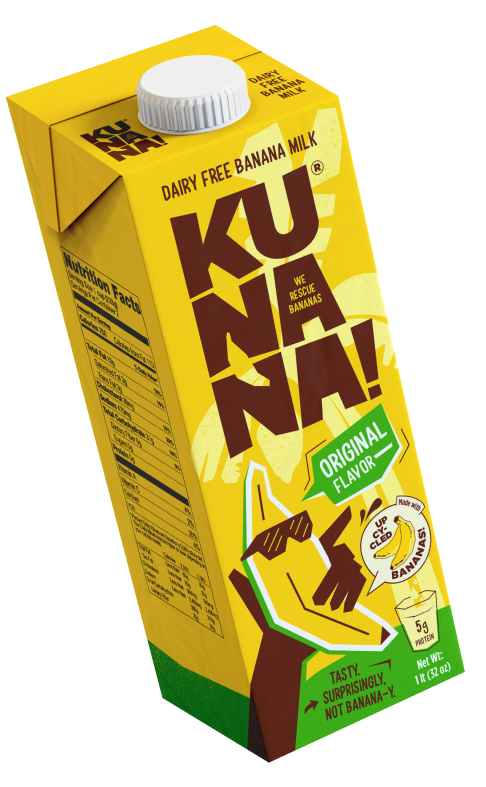
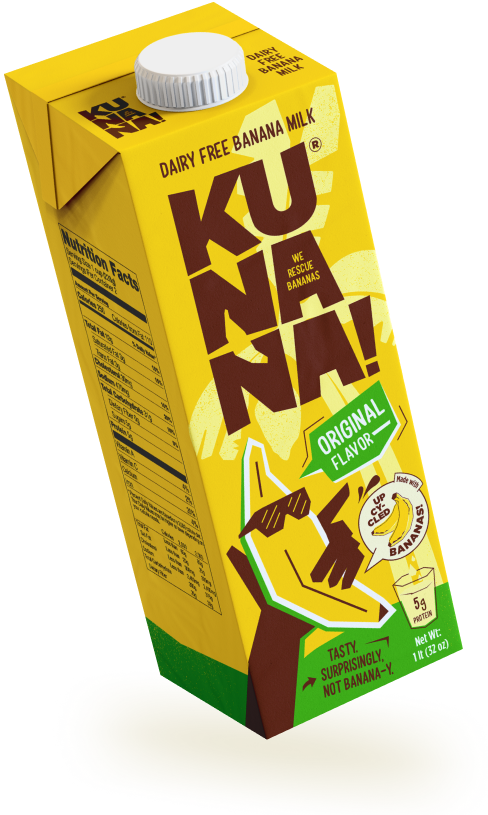
fix: hero images

diff --git a/src/layouts/HomeHero/home-hero.styles.jsx b/src/layouts/HomeHero/home-hero.styles.jsx
@@ -27,11 +27,11 @@ export const ImageGrid = styled(Grid)`
 `
 
 export const ProductImage = styled(CustomImage)`
-  width: 450px;
+  width: 480px;
   position: absolute;
   z-index: 4;
   right: -25px;
-  bottom: -160px;
+  bottom: -210px;
 `
 
 export const MainContainer = styled.div`

diff --git a/src/layouts/BenefitsSection/benefits-section.styles.jsx b/src/layouts/BenefitsSection/benefits-section.styles.jsx
@@ -14,7 +14,7 @@ export const OverBackground = styled.div`
 `
 
 export const CustomContainer = styled(Container)`
-  padding-top: 3em;
+  padding-top: 4em;
   padding-bottom: 3em;
 `
 
